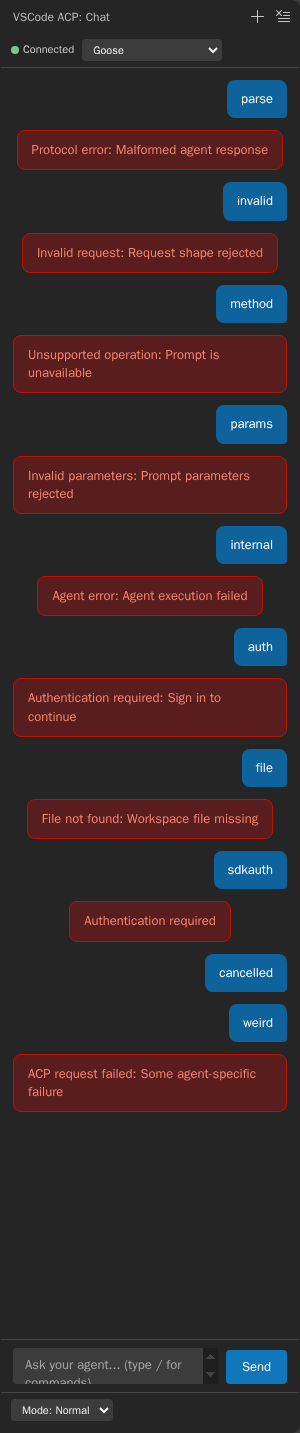
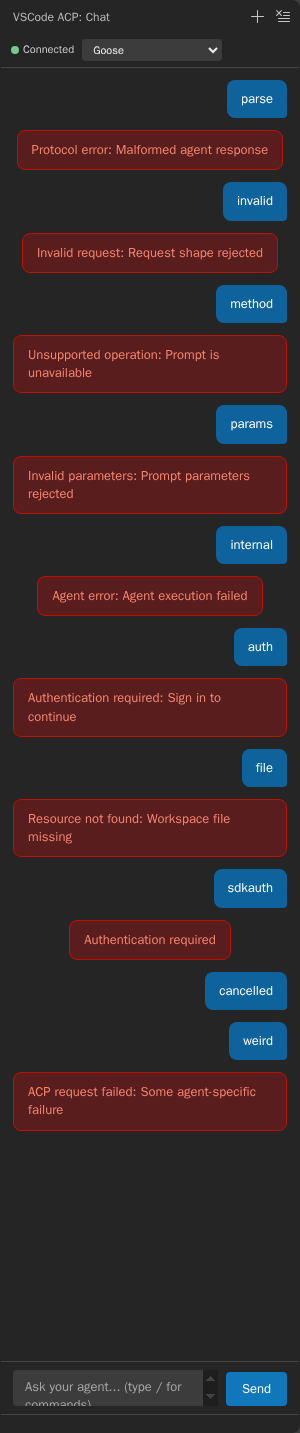
fix(acp): use resource-neutral wording for code -32002
ACP `-32002` covers any missing resource, not only files, and the
formatter is shared by every request path, so a missing non-file
resource was reported as "File not found". Summarize it as "Resource
not found", which also matches the SDK's own `resourceNotFound` message
and collapses the duplicated prefix.

diff --git a/src/test/client.test.ts b/src/test/client.test.ts
@@ -96,7 +96,7 @@ suite("ACP error presentation", () => {
     [-32602, "invalid-parameters", "Invalid parameters"],
     [-32603, "agent", "Agent error"],
     [-32000, "authentication-required", "Authentication required"],
-    [-32002, "resource-not-found", "File not found"],
+    [-32002, "resource-not-found", "Resource not found"],
     [-32800, "cancelled", "Request cancelled"],
   ] as const;
 
@@ -133,6 +133,10 @@ suite("ACP error presentation", () => {
     assert.strictEqual(
       formatACPError(RequestError.authRequired(undefined, "Sign in")),
       "Authentication required: Sign in"
+    );
+    assert.strictEqual(
+      formatACPError(RequestError.resourceNotFound("file:///tmp/missing.ts")),
+      "Resource not found: file:///tmp/missing.ts"
     );
   });
 });

diff --git a/src/acp/client.ts b/src/acp/client.ts
@@ -88,7 +88,7 @@ const ERROR_PRESENTATIONS: Record<
     kind: "authentication-required",
     summary: "Authentication required",
   },
-  [-32002]: { kind: "resource-not-found", summary: "File not found" },
+  [-32002]: { kind: "resource-not-found", summary: "Resource not found" },
   [-32800]: { kind: "cancelled", summary: "Request cancelled" },
 };
 
